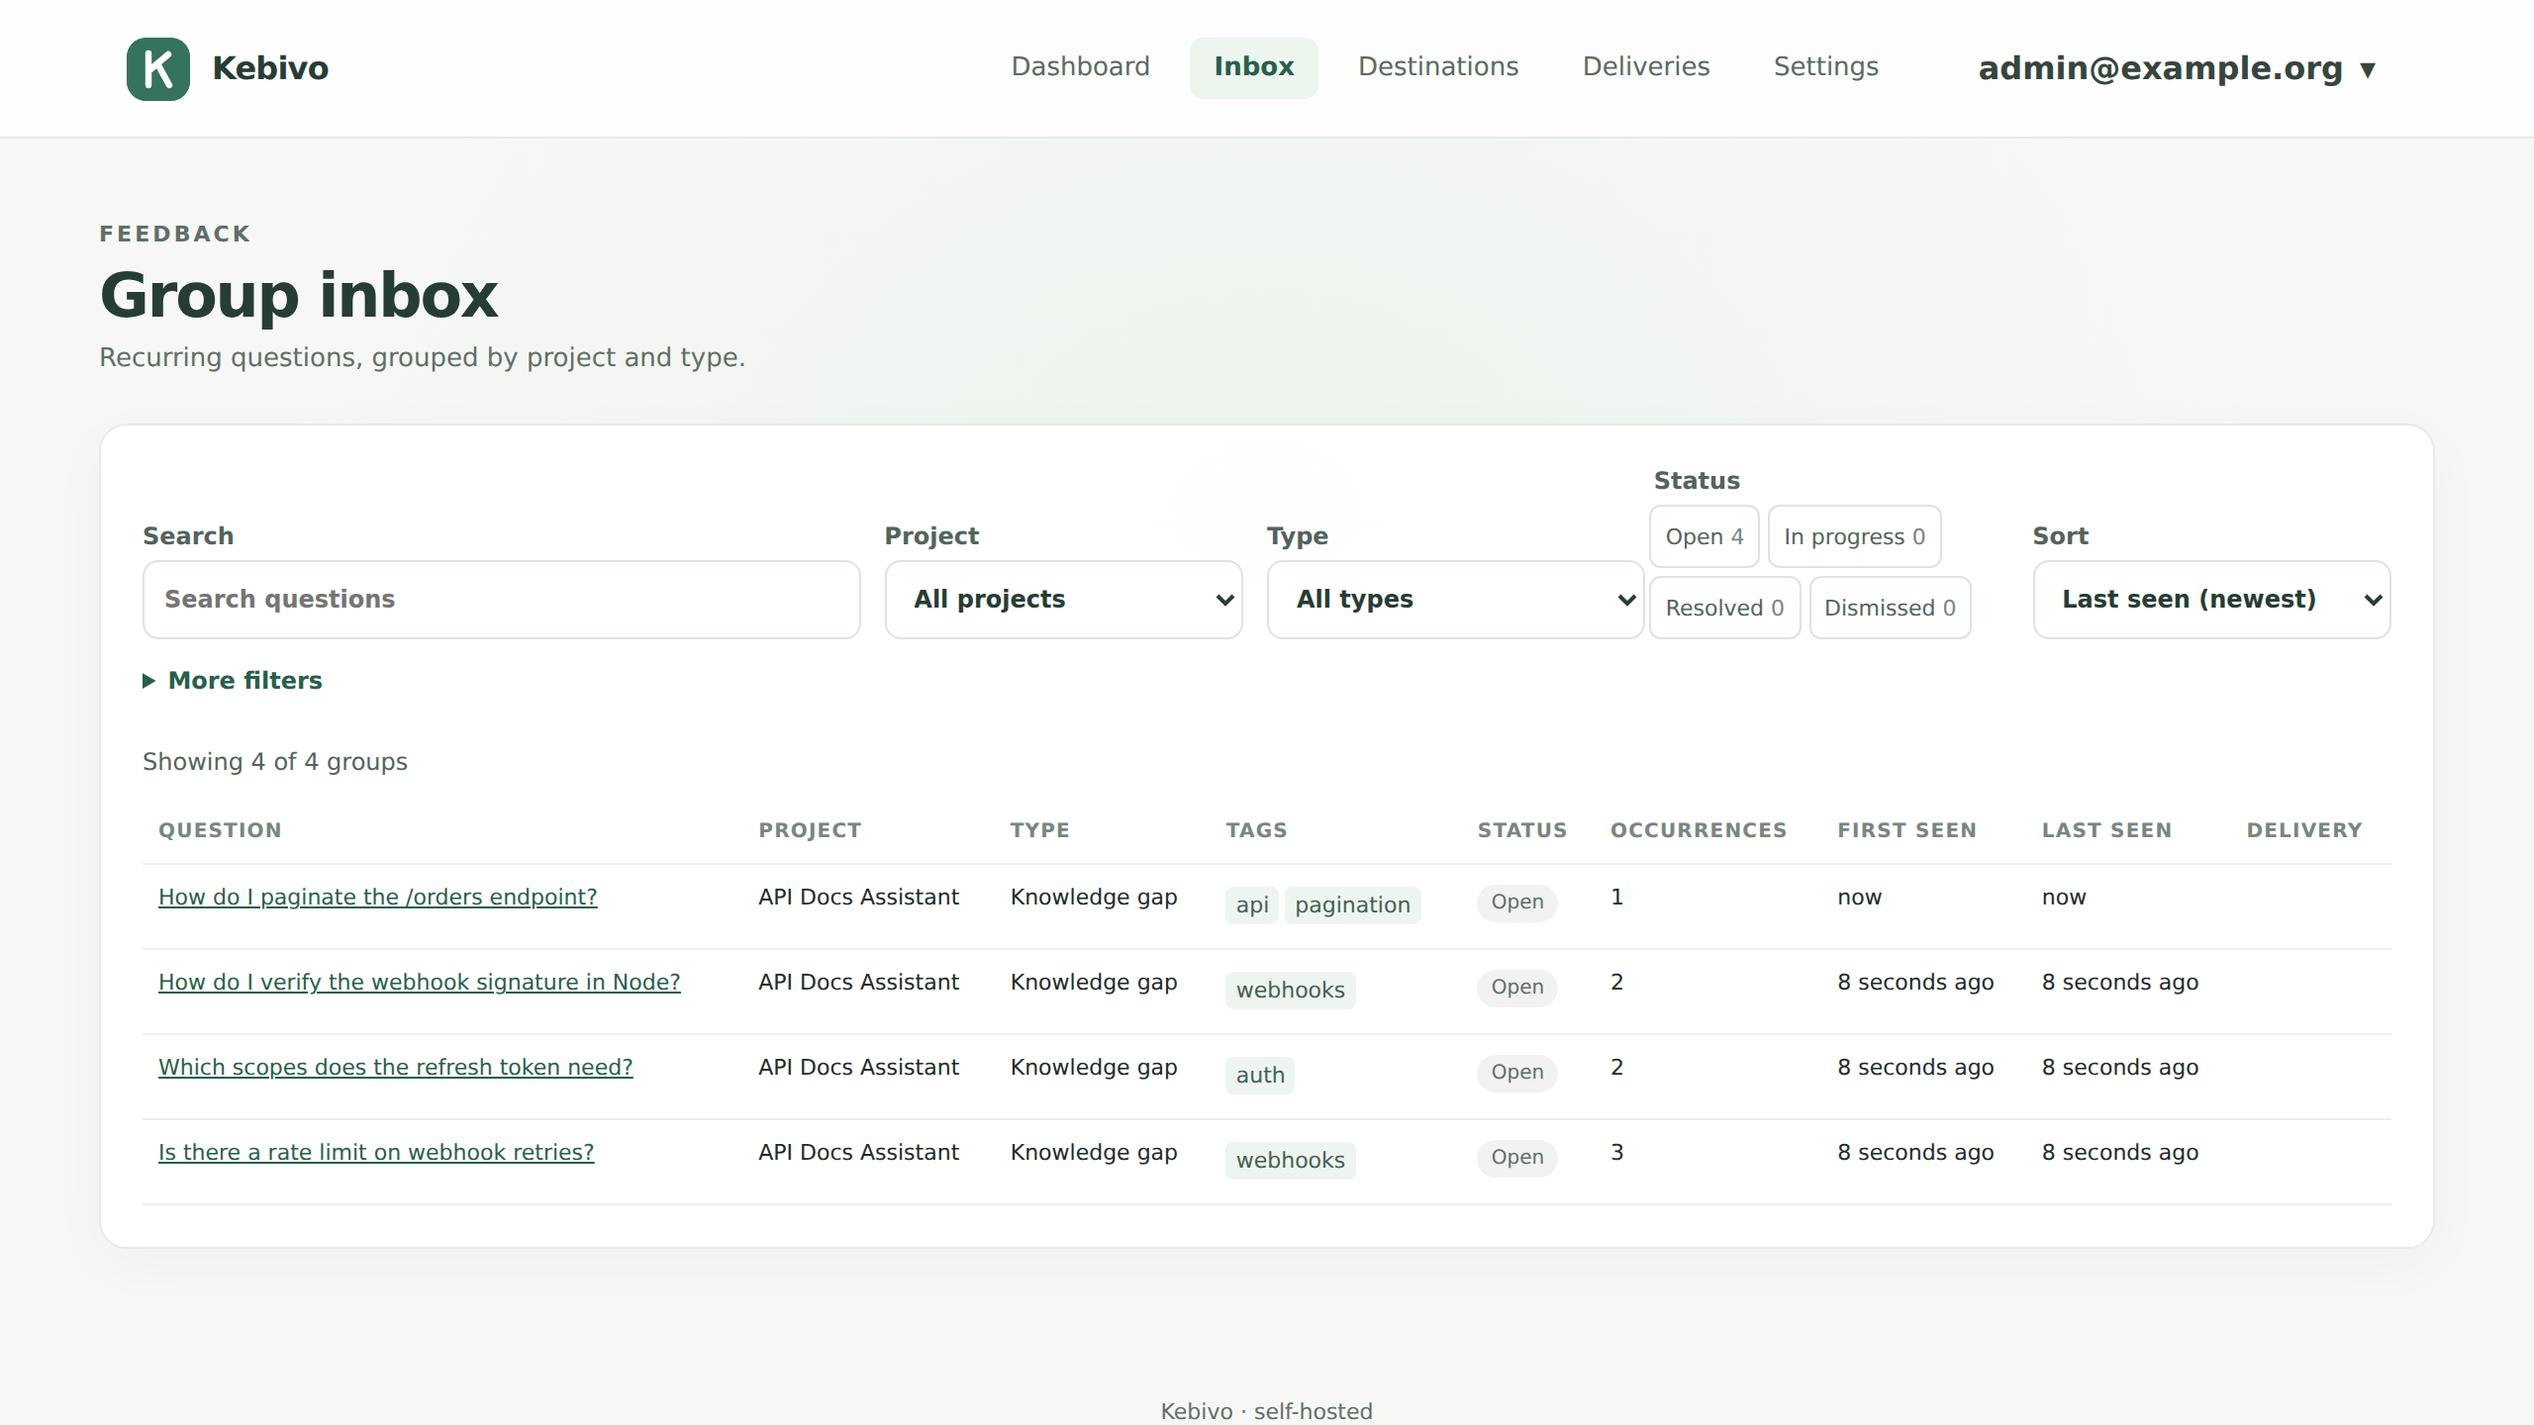
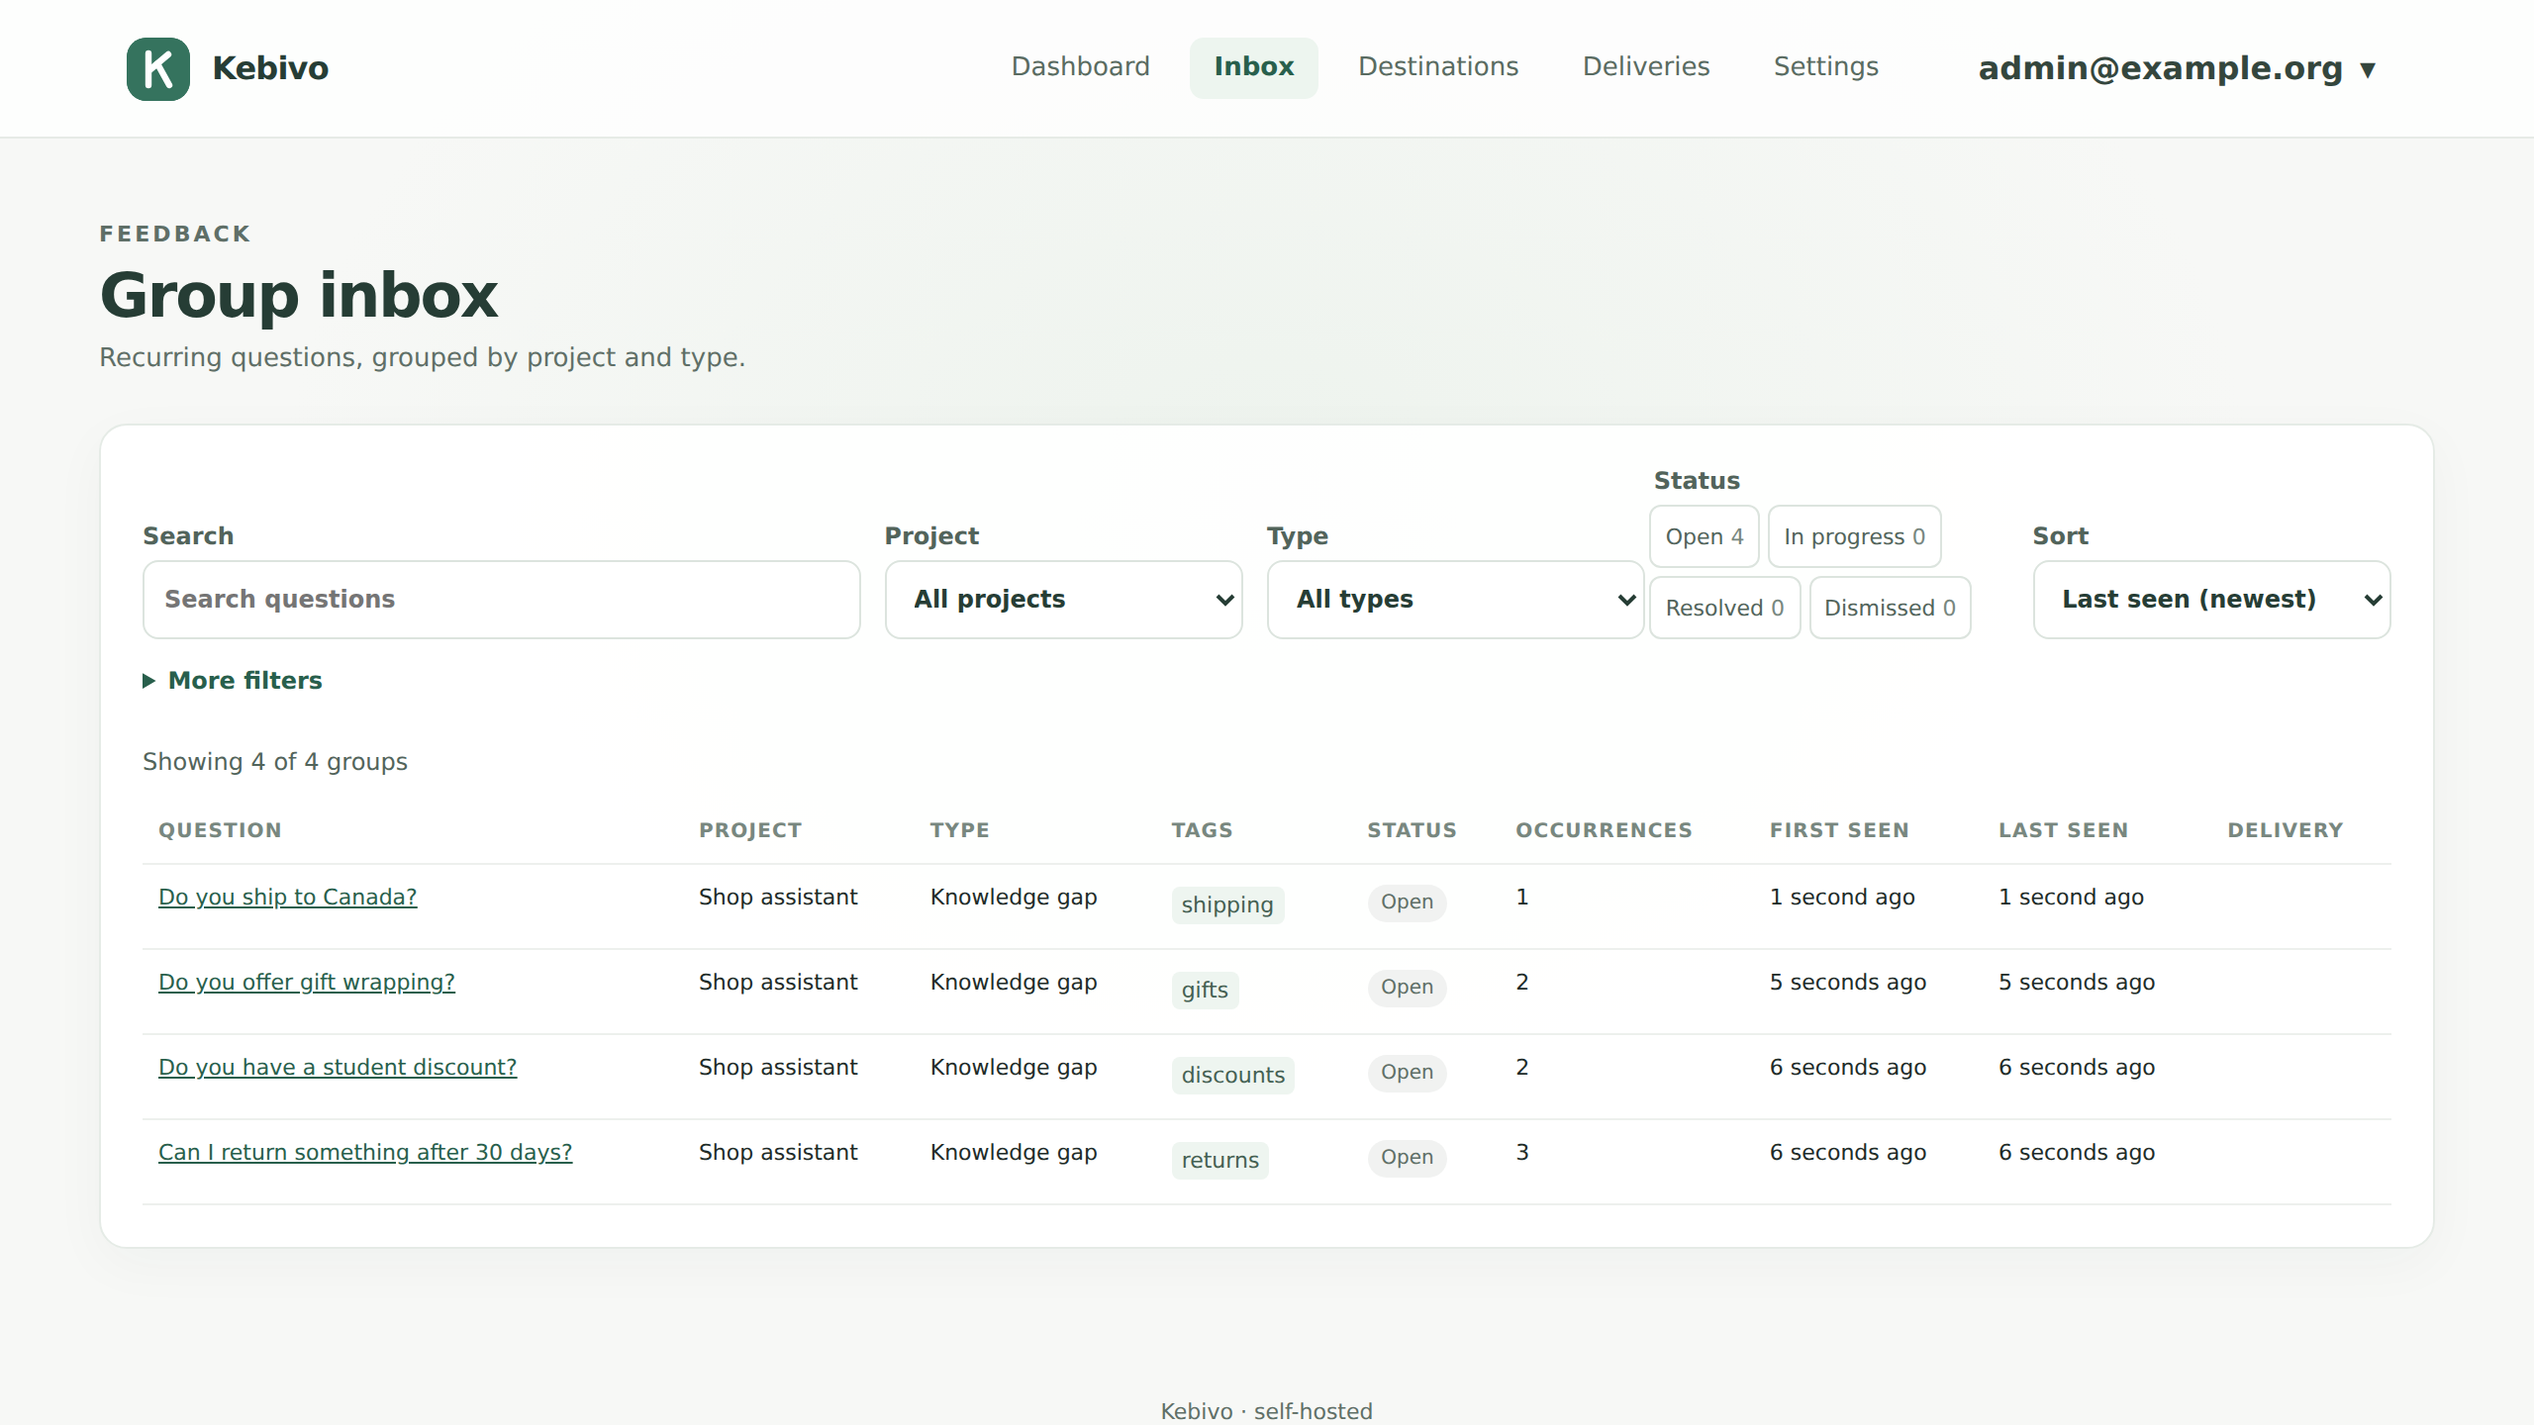
Use shop assistant shipping question in README demo

diff --git a/docs/assets/demo-src/src/scenes/1-problem.tsx b/docs/assets/demo-src/src/scenes/1-problem.tsx
@@ -2,7 +2,7 @@ import {Layout, Rect, Txt, makeScene2D} from '@motion-canvas/2d';
 import {all, createRef, waitFor} from '@motion-canvas/core';
 import {C, H, MONO, SANS, W, caption, progress} from '../lib';
 
-// Scene 1: the problem. A generic chat (no brand), then the point: nobody on the docs team hears about it.
+// Scene 1: a customer's question goes unanswered by a made-up shop's chatbot.
 export default makeScene2D(function* (view) {
   view.fill(C.ink);
   const cap = createRef<Txt>();
@@ -13,10 +13,10 @@ export default makeScene2D(function* (view) {
 
   view.add(
     <>
-      {caption(cap, 'Your AI gets a question your docs don’t cover.', '#fff')}
+      {caption(cap, 'A customer asks your shop’s chatbot.', '#fff')}
       <Txt
         ref={cap2}
-        text="The API docs team needs to hear about it."
+        text="The shop team never sees the question."
         x={-W / 2 + 80}
         y={-H / 2 + 70}
         offset={[-1, -1]}
@@ -30,12 +30,12 @@ export default makeScene2D(function* (view) {
         fill={C.amber}
         opacity={0}
       />
-      <Txt ref={label} text="YOUR AI ASSISTANT" x={-W / 2 + 80} y={10} offset={[-1, 0]} fontFamily={SANS} fontWeight={700} fontSize={20} letterSpacing={3} fill="#7fa493" />
+      <Txt ref={label} text="SHOP ASSISTANT" x={-W / 2 + 80} y={10} offset={[-1, 0]} fontFamily={SANS} fontWeight={700} fontSize={20} letterSpacing={3} fill="#7fa493" />
       <Rect layout ref={user} x={W / 2 - 80} y={90} offset={[1, 0]} padding={[22, 32]} radius={[28, 28, 6, 28]} fill="#2f4a3f">
-        <Txt text="How do I paginate the /orders endpoint?" fontFamily={SANS} fontWeight={700} fontSize={34} fill="#fff" width={660} textWrap />
+        <Txt text="Do you ship to Canada?" fontFamily={SANS} fontWeight={700} fontSize={34} fill="#fff" width={660} textWrap />
       </Rect>
       <Rect layout ref={agent} x={-W / 2 + 80} y={210} offset={[-1, 0]} padding={[22, 32]} radius={[28, 28, 28, 6]} fill="#fff" opacity={0} scale={0.9} stroke={C.amber} lineWidth={0}>
-        <Txt text="I don’t know. I couldn’t find that in my sources." fontFamily={SANS} fontWeight={700} fontSize={34} fill={C.ink} textWrap width={640} />
+        <Txt text="Sorry, I don't know." fontFamily={SANS} fontWeight={700} fontSize={34} fill={C.ink} textWrap width={640} />
       </Rect>
       {progress(1, true)}
     </>,

diff --git a/docs/assets/demo-src/src/scenes/3-route.tsx b/docs/assets/demo-src/src/scenes/3-route.tsx
@@ -4,7 +4,7 @@ import {C, H, SANS, W, caption, progress, shotCard} from '../lib';
 import routing from '../../shots/routing.png';
 import deliveries from '../../shots/deliveries.png';
 
-// Scene 3: a routing rule sends the group to the docs owner; the delivery log shows it delivered.
+// Scene 3: a routing rule sends the report to the store team; the delivery log shows it delivered.
 const RULE_Y = 85;
 const LOG_Y = 245;
 const ruleCrop = {x: 40, y: 160, w: 1470, h: 165};
@@ -21,7 +21,7 @@ export default makeScene2D(function* (view) {
   
   view.add(
     <>
-      {caption(cap, 'A configured rule routes the report to the API docs webhook.', C.dark)}
+      {caption(cap, 'A configured rule routes the report to the store team.', C.dark)}
       {shotCard(rule, routing, 1556, 982, ruleCrop, 1120)}
       {shotCard(log, deliveries, 2560, 1440, logCrop, 1120)}
       {/* First delivery row sits 56 to 144 px into the crop. */}

diff --git a/docs/assets/demo-src/src/scenes/4-group.tsx b/docs/assets/demo-src/src/scenes/4-group.tsx
@@ -26,7 +26,7 @@ export default makeScene2D(function* (view) {
       <Rect layout ref={pill} x={330} y={CARD_Y - 190} fill={C.green} radius={40} padding={[10, 30]} opacity={0} scale={0.6}>
         <Txt ref={n} text="1 occurrence" fontFamily={SANS} fontWeight={800} fontSize={46} letterSpacing={-1} fill="#fff" />
       </Rect>
-      {/* Dim the other groups so the eye stays on the /orders row (first row is 73 to 158 px into the crop). */}
+      {/* Dim the other groups so the eye stays on the Canada question (first row is 73 to 158 px into the crop). */}
       <Rect y={CARD_Y + (crop.h * s) / 2 - (crop.h - 158) * s / 2} width={CARD_W} height={(crop.h - 158) * s} fill="rgba(246,248,246,0.72)" />
       {progress(4, false)}
     </>,

diff --git a/docs/assets/demo-src/src/scenes/2-report.tsx b/docs/assets/demo-src/src/scenes/2-report.tsx
@@ -55,8 +55,8 @@ export default makeScene2D(function* (view) {
 
   yield* card().opacity(1, 0.3);
   yield* l1().text('tools/call  report_knowledge_gap', 0.9);
-  yield* l2().text('question: "How do I paginate the /orders endpoint?"', 1.0);
-  yield* l3().text('tags:     api, pagination', 0.5);
+  yield* l2().text('question: "Do you ship to Canada?"', 1.0);
+  yield* l3().text('tags:     shipping', 0.5);
   yield* waitFor(0.4);
   yield* all(ok().opacity(1, 0.25), l4().text(`event_id ${result.event_id.slice(0, 8)}…`, 0.5));
   yield* waitFor(1.6);

diff --git a/README.md b/README.md
@@ -9,7 +9,7 @@
 
 Your AI app reports each question it couldn't answer; Kebivo groups the repeats and routes them to whoever can fix the docs.
 
-![Demo: an assistant cannot answer how to paginate the /orders endpoint. It reports the question to Kebivo over MCP; a configured webhook route delivers it. A second report of the same question joins one inbox group with 2 occurrences. Product frames use sample data from a real Kebivo container.](docs/assets/demo.gif)
+![Demo: a customer asks a shop's AI support chatbot, "Do you ship to Canada?" The bot cannot answer. The app reports the question to Kebivo over MCP; a configured webhook route delivers it. A second report joins one inbox group with 2 occurrences. Product frames use sample data from a real Kebivo container.](docs/assets/demo.gif)
 
 [![CI](https://github.com/OCNAI/kebivo/actions/workflows/ci.yml/badge.svg?branch=main)](https://github.com/OCNAI/kebivo/actions/workflows/ci.yml)
 [![License: Apache-2.0](https://img.shields.io/badge/license-Apache--2.0-blue.svg)](LICENSE)
@@ -29,7 +29,7 @@ curl -fsS --retry 30 --retry-all-errors --retry-delay 1 http://127.0.0.1:8000/he
 **Without Kebivo:** the bot says it couldn't find the answer, the user gives up, and the question sits in a log nobody reads.\
 **With Kebivo:** the question shows up once in the inbox with a repeat count, and your routing rules can send it to Slack, email or a webhook for whoever owns those docs.
 
-![Kebivo group inbox with sample data: "How do I paginate the /orders endpoint?" has 7 occurrences, alongside other open knowledge gaps from an API docs assistant.](docs/assets/screenshots/inbox.png)
+![Kebivo group inbox with sample data from a shop assistant: "Do you ship to Canada?" has 7 occurrences, alongside other customer questions the chatbot could not answer.](docs/assets/screenshots/inbox.png)
 
 <sub>Group inbox from a real Kebivo 0.2.0 container with sample data.</sub>
 
@@ -97,7 +97,7 @@ Curl may print a few `Connection reset` errors while migrations run. Readiness r
 read -rsp 'Admin password (12+ characters): ' KEBIVO_ADMIN_PASSWORD; printf '\n'
 printf '%s\n' "$KEBIVO_ADMIN_PASSWORD" | docker exec -i kebivo python -m kebivo.cli bootstrap --email admin@example.org --password-stdin
 unset KEBIVO_ADMIN_PASSWORD
-KEBIVO_PROJECT="$(docker exec kebivo python -m kebivo.cli project create --name 'API docs assistant' --json)"
+KEBIVO_PROJECT="$(docker exec kebivo python -m kebivo.cli project create --name 'Shop assistant' --json)"
 KEBIVO_TOKEN="$(printf '%s' "$KEBIVO_PROJECT" | python3 -c 'import json,sys; print(json.load(sys.stdin)["token"])')"
 ```
 
@@ -107,16 +107,16 @@ KEBIVO_TOKEN="$(printf '%s' "$KEBIVO_PROJECT" | python3 -c 'import json,sys; pri
 curl -i http://127.0.0.1:8000/api/v1/feedback \
   -H 'Content-Type: application/json' \
   -H "Authorization: Bearer $KEBIVO_TOKEN" \
-  -H 'Idempotency-Key: orders-gap-001' \
-  --data '{"event_type":"knowledge_gap","question":"How do I paginate the /orders endpoint?","tags":["api-docs"]}'
+  -H 'Idempotency-Key: canada-gap-001' \
+  --data '{"event_type":"knowledge_gap","question":"Do you ship to Canada?","tags":["shipping"]}'
 curl -i http://127.0.0.1:8000/api/v1/feedback \
   -H 'Content-Type: application/json' \
   -H "Authorization: Bearer $KEBIVO_TOKEN" \
-  -H 'Idempotency-Key: orders-gap-002' \
-  --data '{"event_type":"knowledge_gap","question":"How do I paginate the /orders endpoint?","tags":["api-docs"]}'
+  -H 'Idempotency-Key: canada-gap-002' \
+  --data '{"event_type":"knowledge_gap","question":"Do you ship to Canada?","tags":["shipping"]}'
 ```
 
-Both responses are `202 Accepted` with distinct `event_id` values. Open <http://127.0.0.1:8000/>, sign in, and find **How do I paginate the /orders endpoint?** in the Inbox with **2 occurrences**. Use exactly `127.0.0.1`: `localhost` is a different origin, and sign-in names the allowed origin if you use the wrong one. You can also create projects and tokens in the UI.
+Both responses are `202 Accepted` with distinct `event_id` values. Open <http://127.0.0.1:8000/>, sign in, and find **Do you ship to Canada?** in the Inbox with **2 occurrences**. Use exactly `127.0.0.1`: `localhost` is a different origin, and sign-in names the allowed origin if you use the wrong one. You can also create projects and tokens in the UI.
 
 For a signed webhook delivery, follow step 4 of the [Docker guide](docs/quickstart.md).
 

diff --git a/docs/assets/demo-src/README.md b/docs/assets/demo-src/README.md
@@ -1,12 +1,12 @@
 # Kebivo README demo source
 
-Motion Canvas project behind `../demo.gif`. The story uses the same `/orders` question as the README Quickstart. Product UI frames were captured from a fresh `ghcr.io/ocnai/kebivo:0.2.0` container with synthetic data. The chat and end card are drawn. The end card imports the approved Concept C lockup directly from `../logo/lockup.svg`.
+Motion Canvas project behind `../demo.gif`. A customer asks a made-up shop's chatbot "Do you ship to Canada?" and gets "Sorry, I don't know." The app reports that question, and Kebivo counts the repeats. Product UI frames were captured from a fresh `ghcr.io/ocnai/kebivo:0.2.0` container with synthetic data. The chat and end card are drawn. The end card imports the approved Concept C lockup directly from `../logo/lockup.svg`.
 
 | Scene | What it shows |
 | --- | --- |
-| 1 | A drawn assistant chat cannot answer the `/orders` pagination question |
+| 1 | A drawn shop assistant chat cannot answer the customer's Canada shipping question |
 | 2 | The app's discretionary MCP `report_knowledge_gap` call returns `status: accepted`; this acknowledges intake, not delivery |
-| 3 | A configured routing rule sends the report to the API docs webhook, with a real delivered row |
+| 3 | A configured shipping rule sends the report to the store team webhook, with a real delivered row |
 | 4 | A second, deterministic REST submission of the same question joins the existing group, raising its count from 1 to 2 |
 | 5 | End card with the approved lockup and the visible value proposition |
 
@@ -38,4 +38,22 @@ printf 'DemoPassw0rd-2026\nDemoPassw0rd-2026\n' | docker exec -i kdemo python -m
 node capture/capture.mjs
 ```
 
-`capture.mjs` creates an API Docs Assistant project, webhook destination and routing rule. Its first report uses MCP; the second uses REST. The crops used in the animation exclude the old header mark in the 0.2.0 container UI. No documentation change or automatic fix is depicted.
+`capture.mjs` creates a Shop assistant project, store team webhook destination and shipping routing rule. Its first report uses MCP; the second uses REST. The crops used in the animation exclude the old header mark in the 0.2.0 container UI. No documentation change or automatic fix is depicted.
+
+## Re-capture the README screenshots
+
+Use a separate fresh container so the sample inbox has exactly the eight questions in `capture/readme-shots.mjs`. From this directory, after `npm ci` and with Playwright installed in `frontend/node_modules`:
+
+```sh
+docker run -d --name kreadme -p 127.0.0.1:18322:8000 \
+  -e SECRET_KEY=$(openssl rand -hex 32) -e ENCRYPTION_KEY=$(openssl rand -hex 32) \
+  -e ALLOWED_ORIGINS=http://127.0.0.1:18322 ghcr.io/ocnai/kebivo:0.2.0
+printf 'DemoPassw0rd-2026\nDemoPassw0rd-2026\n' | docker exec -i kreadme python -m kebivo.cli bootstrap --email admin@example.org --password-stdin
+BASE=http://127.0.0.1:18322 node capture/readme-shots.mjs
+node_modules/ffmpeg-static/ffmpeg -loglevel error -y -i shots-readme/raw-inbox.png \
+  -vf 'scale=1600:-1,crop=1600:923:0:90' -frames:v 1 ../screenshots/inbox.png
+node_modules/ffmpeg-static/ffmpeg -loglevel error -y -i shots-readme/raw-dashboard.png \
+  -vf 'scale=1700:-1,crop=1600:621:50:270' -frames:v 1 ../screenshots/dashboard.png
+```
+
+Wait for `/health/ready` before bootstrap. The capture creates the Shop assistant project and synthetic reports; it sorts the inbox by occurrence count for the README image.
